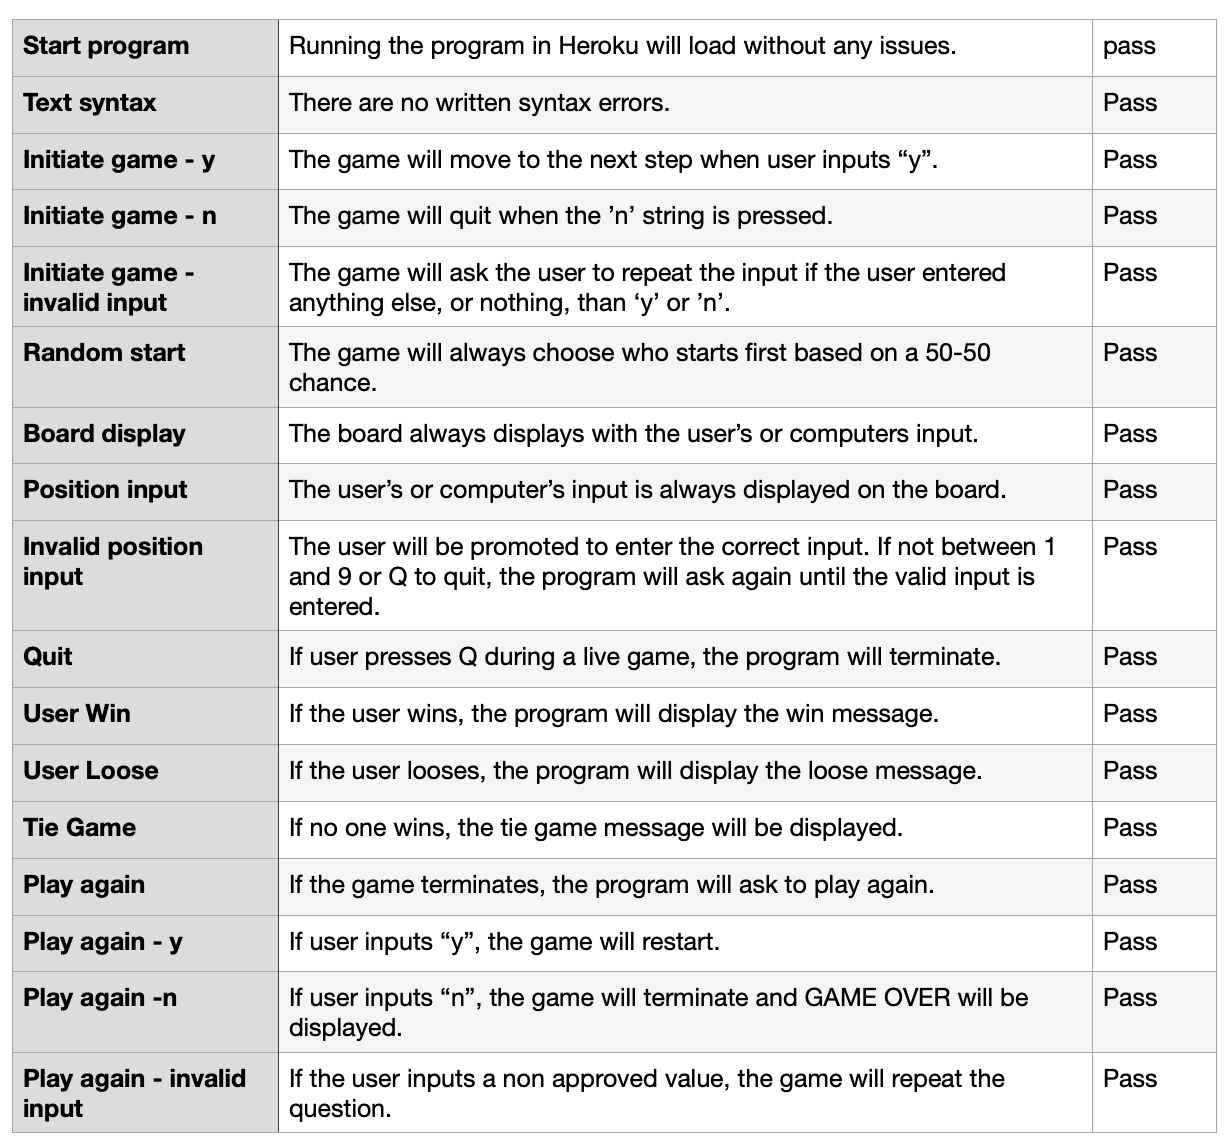
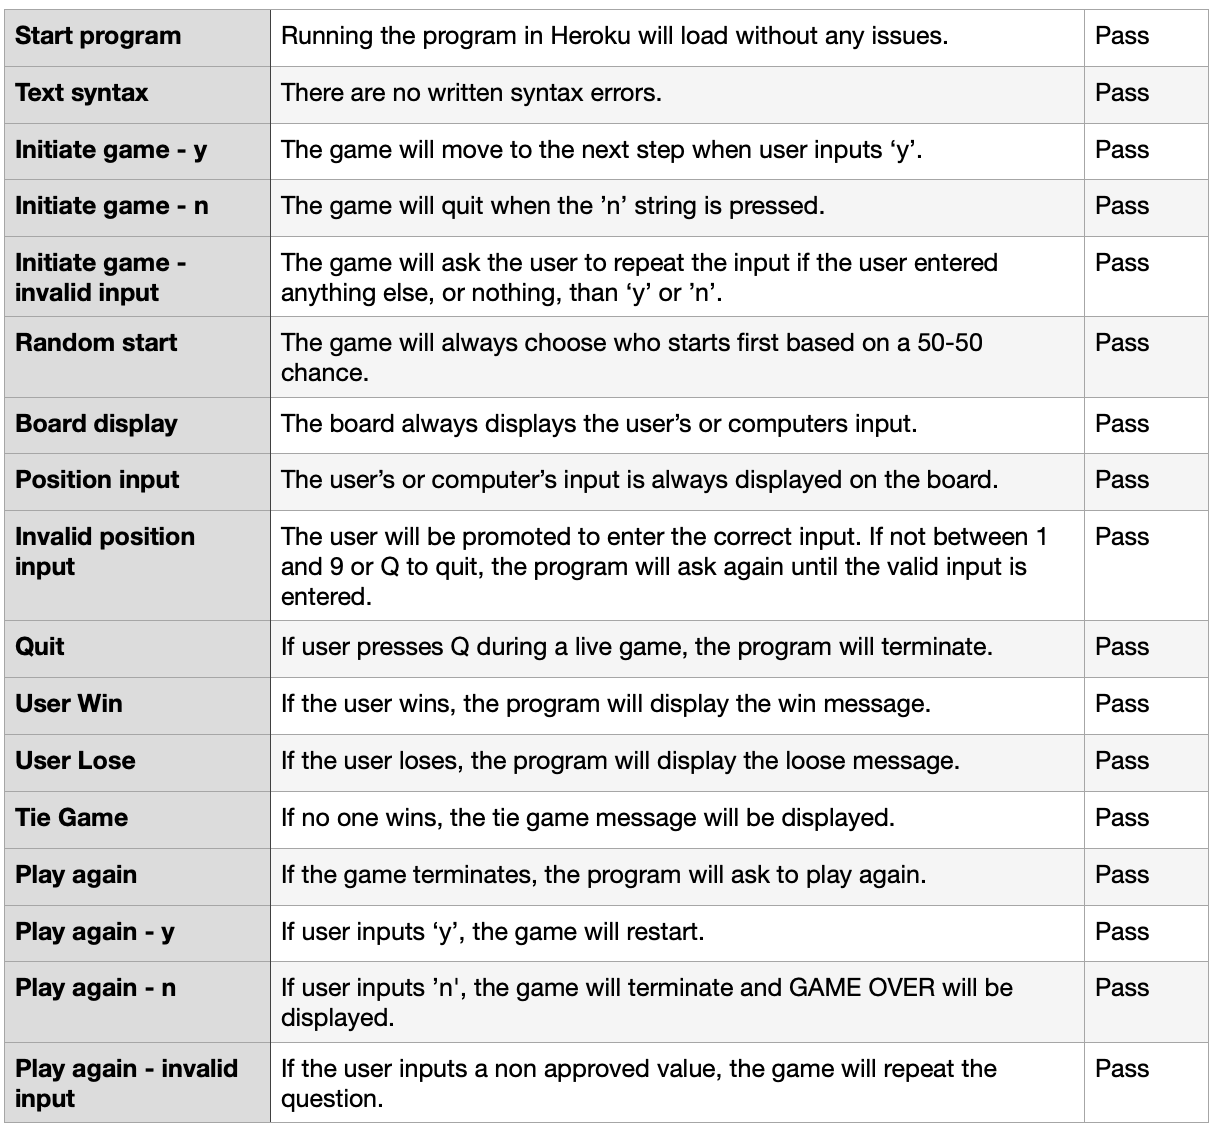
Correct loose spelling error

diff --git a/run.py b/run.py
@@ -22,7 +22,7 @@ demo_board = """
    |   |
 """
 
-loose_message = """
+lose_message = """
 
 ▓██   ██▓ ▒█████   █    ██     ██▓     ▒█████   ▒█████    ██████ ▓█████
  ▒██  ██▒▒██▒  ██▒ ██  ▓██▒   ▓██▒    ▒██▒  ██▒▒██▒  ██▒▒██    ▒ ▓█   ▀
@@ -249,7 +249,7 @@ def main():
                 print_board(board)
             else:
                 print(Fore.RED + 'BOT is the winner')
-                print(Fore.RED + loose_message)
+                print(Fore.RED + lose_message)
                 break
 
             if not(is_winner(board, 'X')):
@@ -295,7 +295,7 @@ def main():
                     print_board(board)
             else:
                 print('BOT is the winner')
-                print(Fore.RED + loose_message)
+                print(Fore.RED + lose_message)
                 break
 
 
